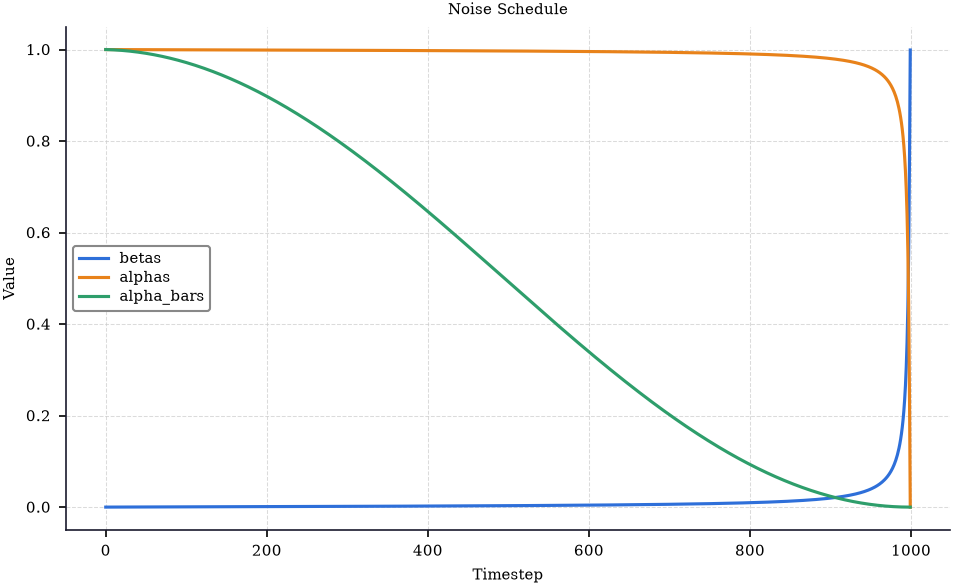
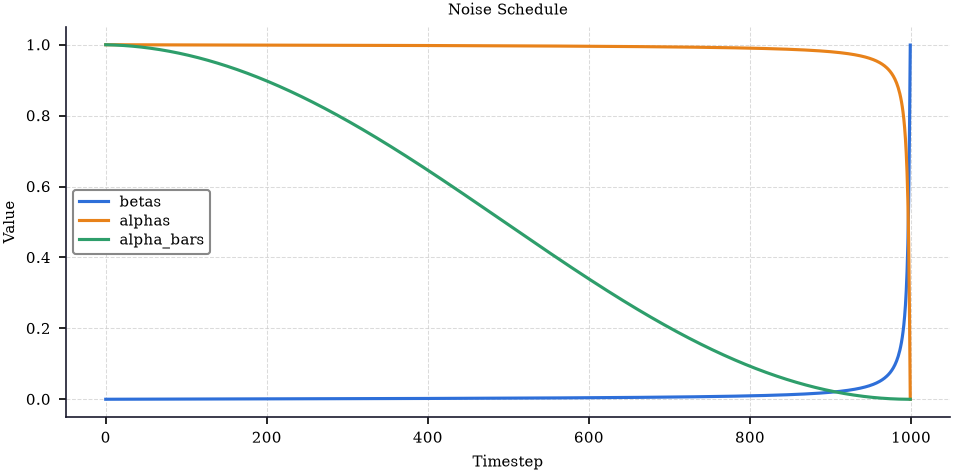
making the plot wide

diff --git a/src/postprocessing/noise_schedule/test_schedule.py b/src/postprocessing/noise_schedule/test_schedule.py
@@ -101,23 +101,23 @@ def noise_schedule(
 def test_noise_schedule():
     ts = np.linspace(0, TIMESTEPS - 1, N_TIMESTEP_SAMPLES, dtype=int)
 
-    fig_line, ax_line = plt.subplots(layout="constrained")
+    fig = plt.figure(figsize=pg.FIG_WIDE)
 
     for schedule in SCHEDULES:
         betas, alphas, alpha_bars = noise_schedule(
             schedule, TIMESTEPS, BETA_START, BETA_END
         )
 
-        ax_line.plot(ts, betas[ts], label=f"betas")
-        ax_line.plot(ts, alphas[ts], label=f"alphas")
-        ax_line.plot(ts, alpha_bars[ts], label=f"alpha_bars")
+        plt.plot(ts, betas[ts], label=f"betas")
+        plt.plot(ts, alphas[ts], label=f"alphas")
+        plt.plot(ts, alpha_bars[ts], label=f"alpha_bars")
 
-    ax_line.legend()
-    ax_line.set_xlabel("Timestep")
-    ax_line.set_ylabel("Value")
-    ax_line.set_title("Noise Schedule")
+    plt.legend()
+    plt.xlabel("Timestep")
+    plt.ylabel("Value")
+    plt.title("Noise Schedule")
 
-    return fig_line
+    return fig
 
 if __name__ == "__main__":
     pg.setup()
